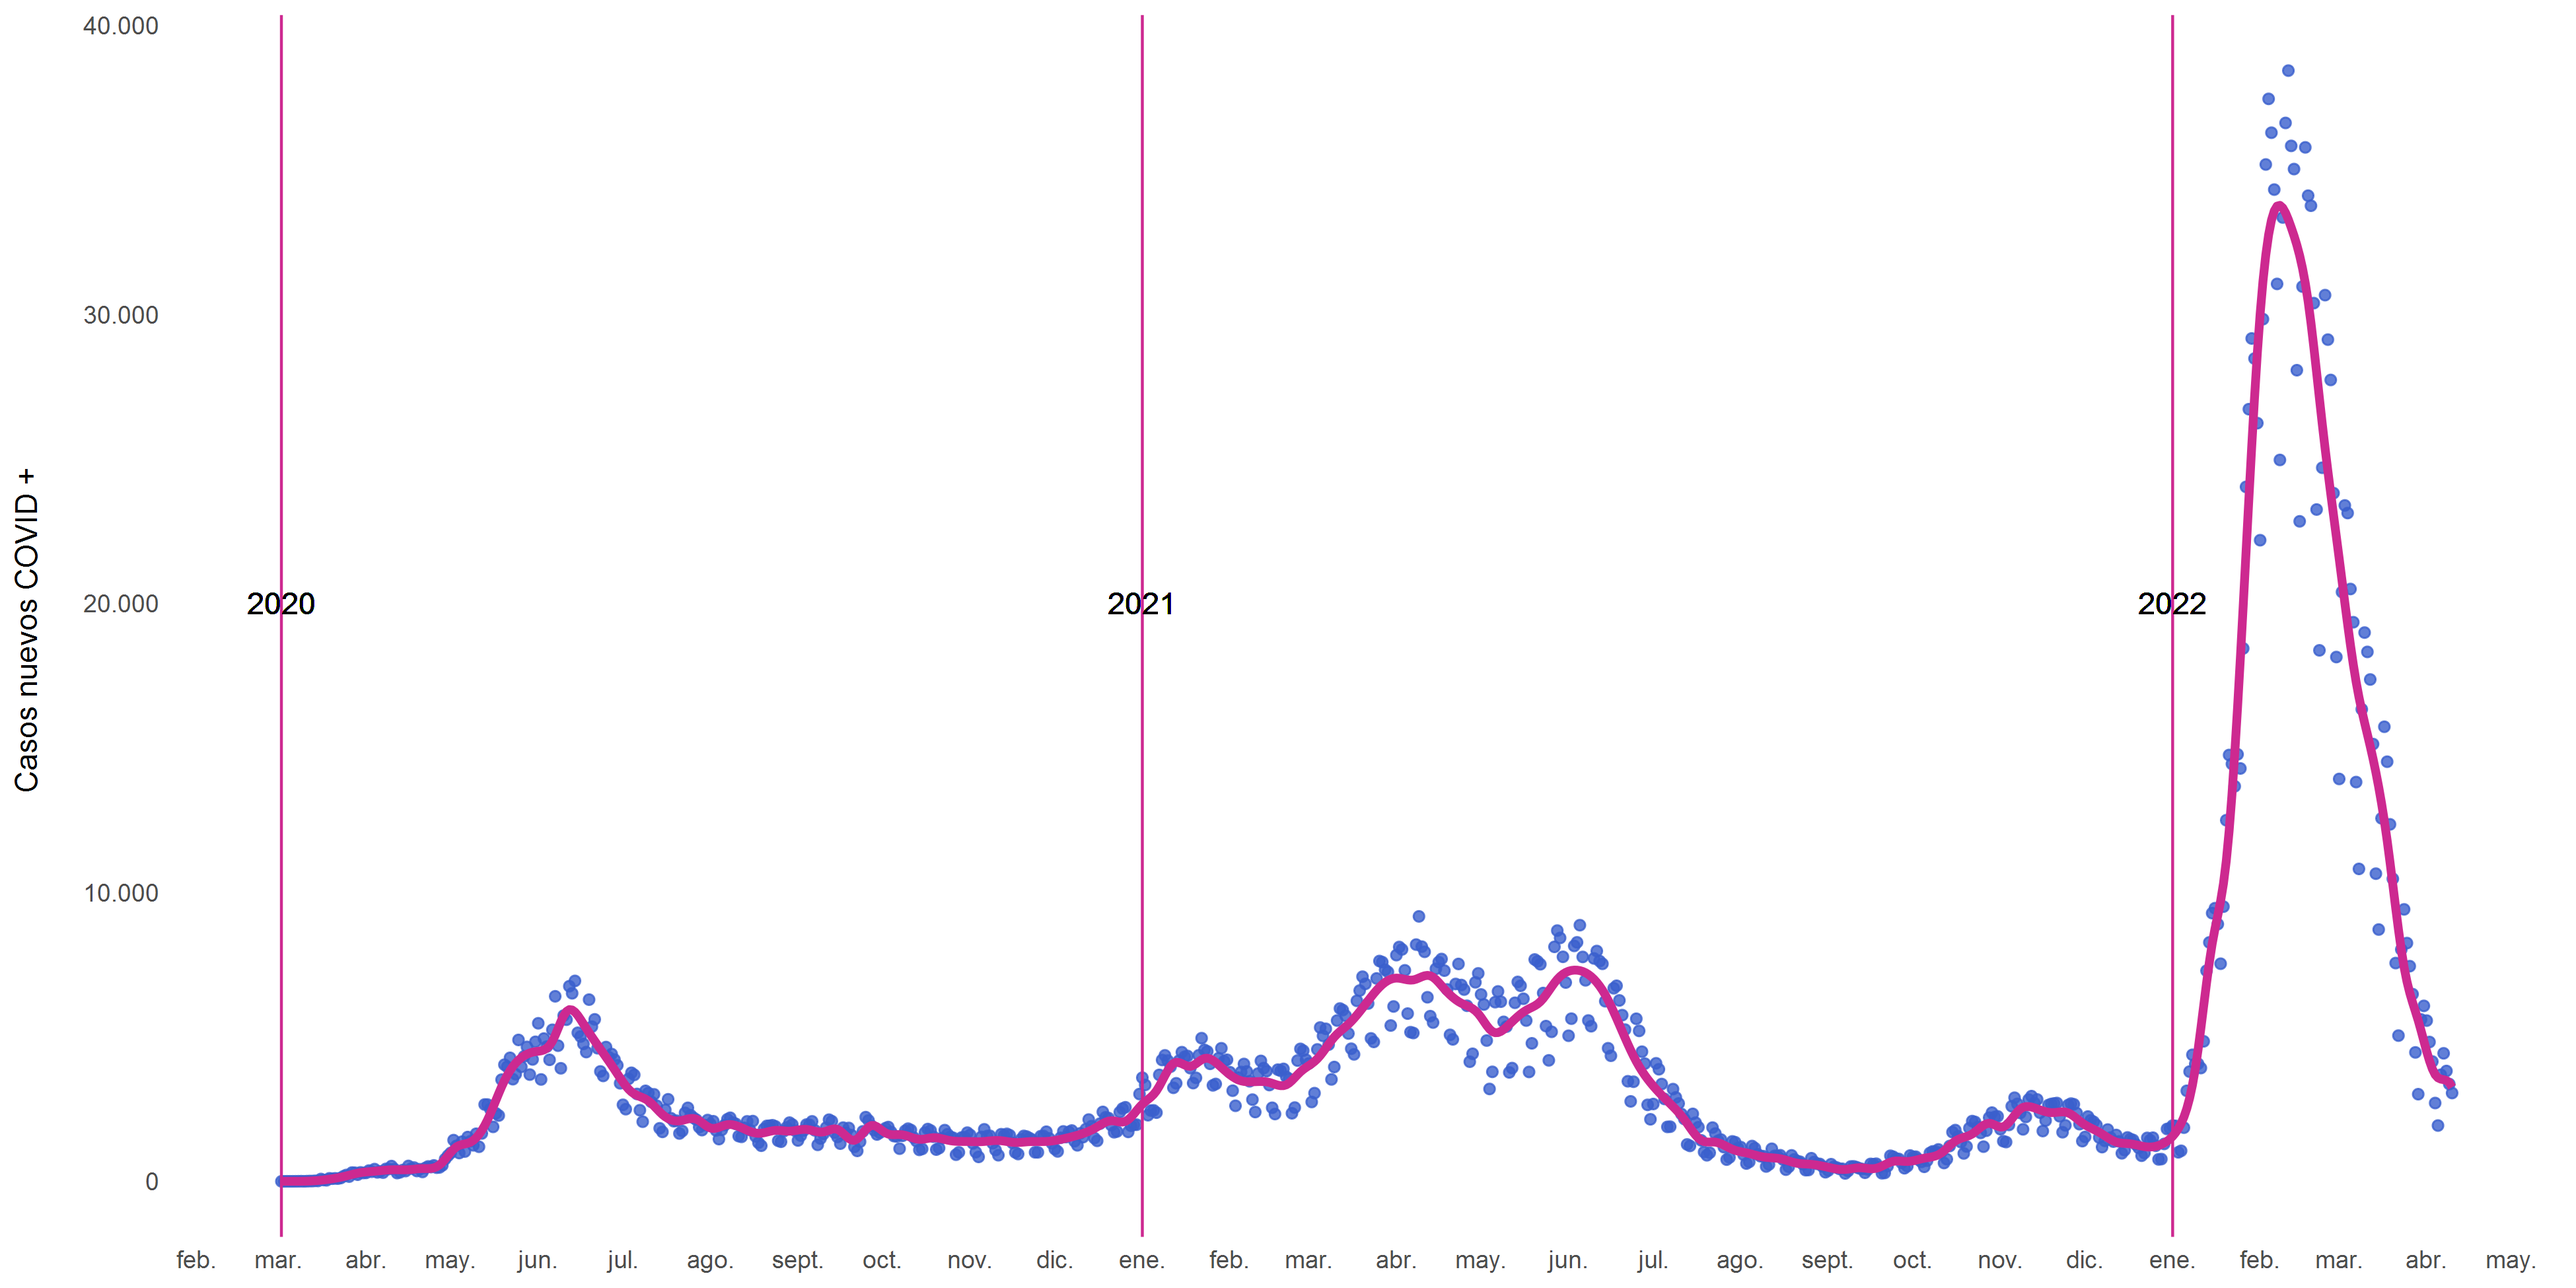
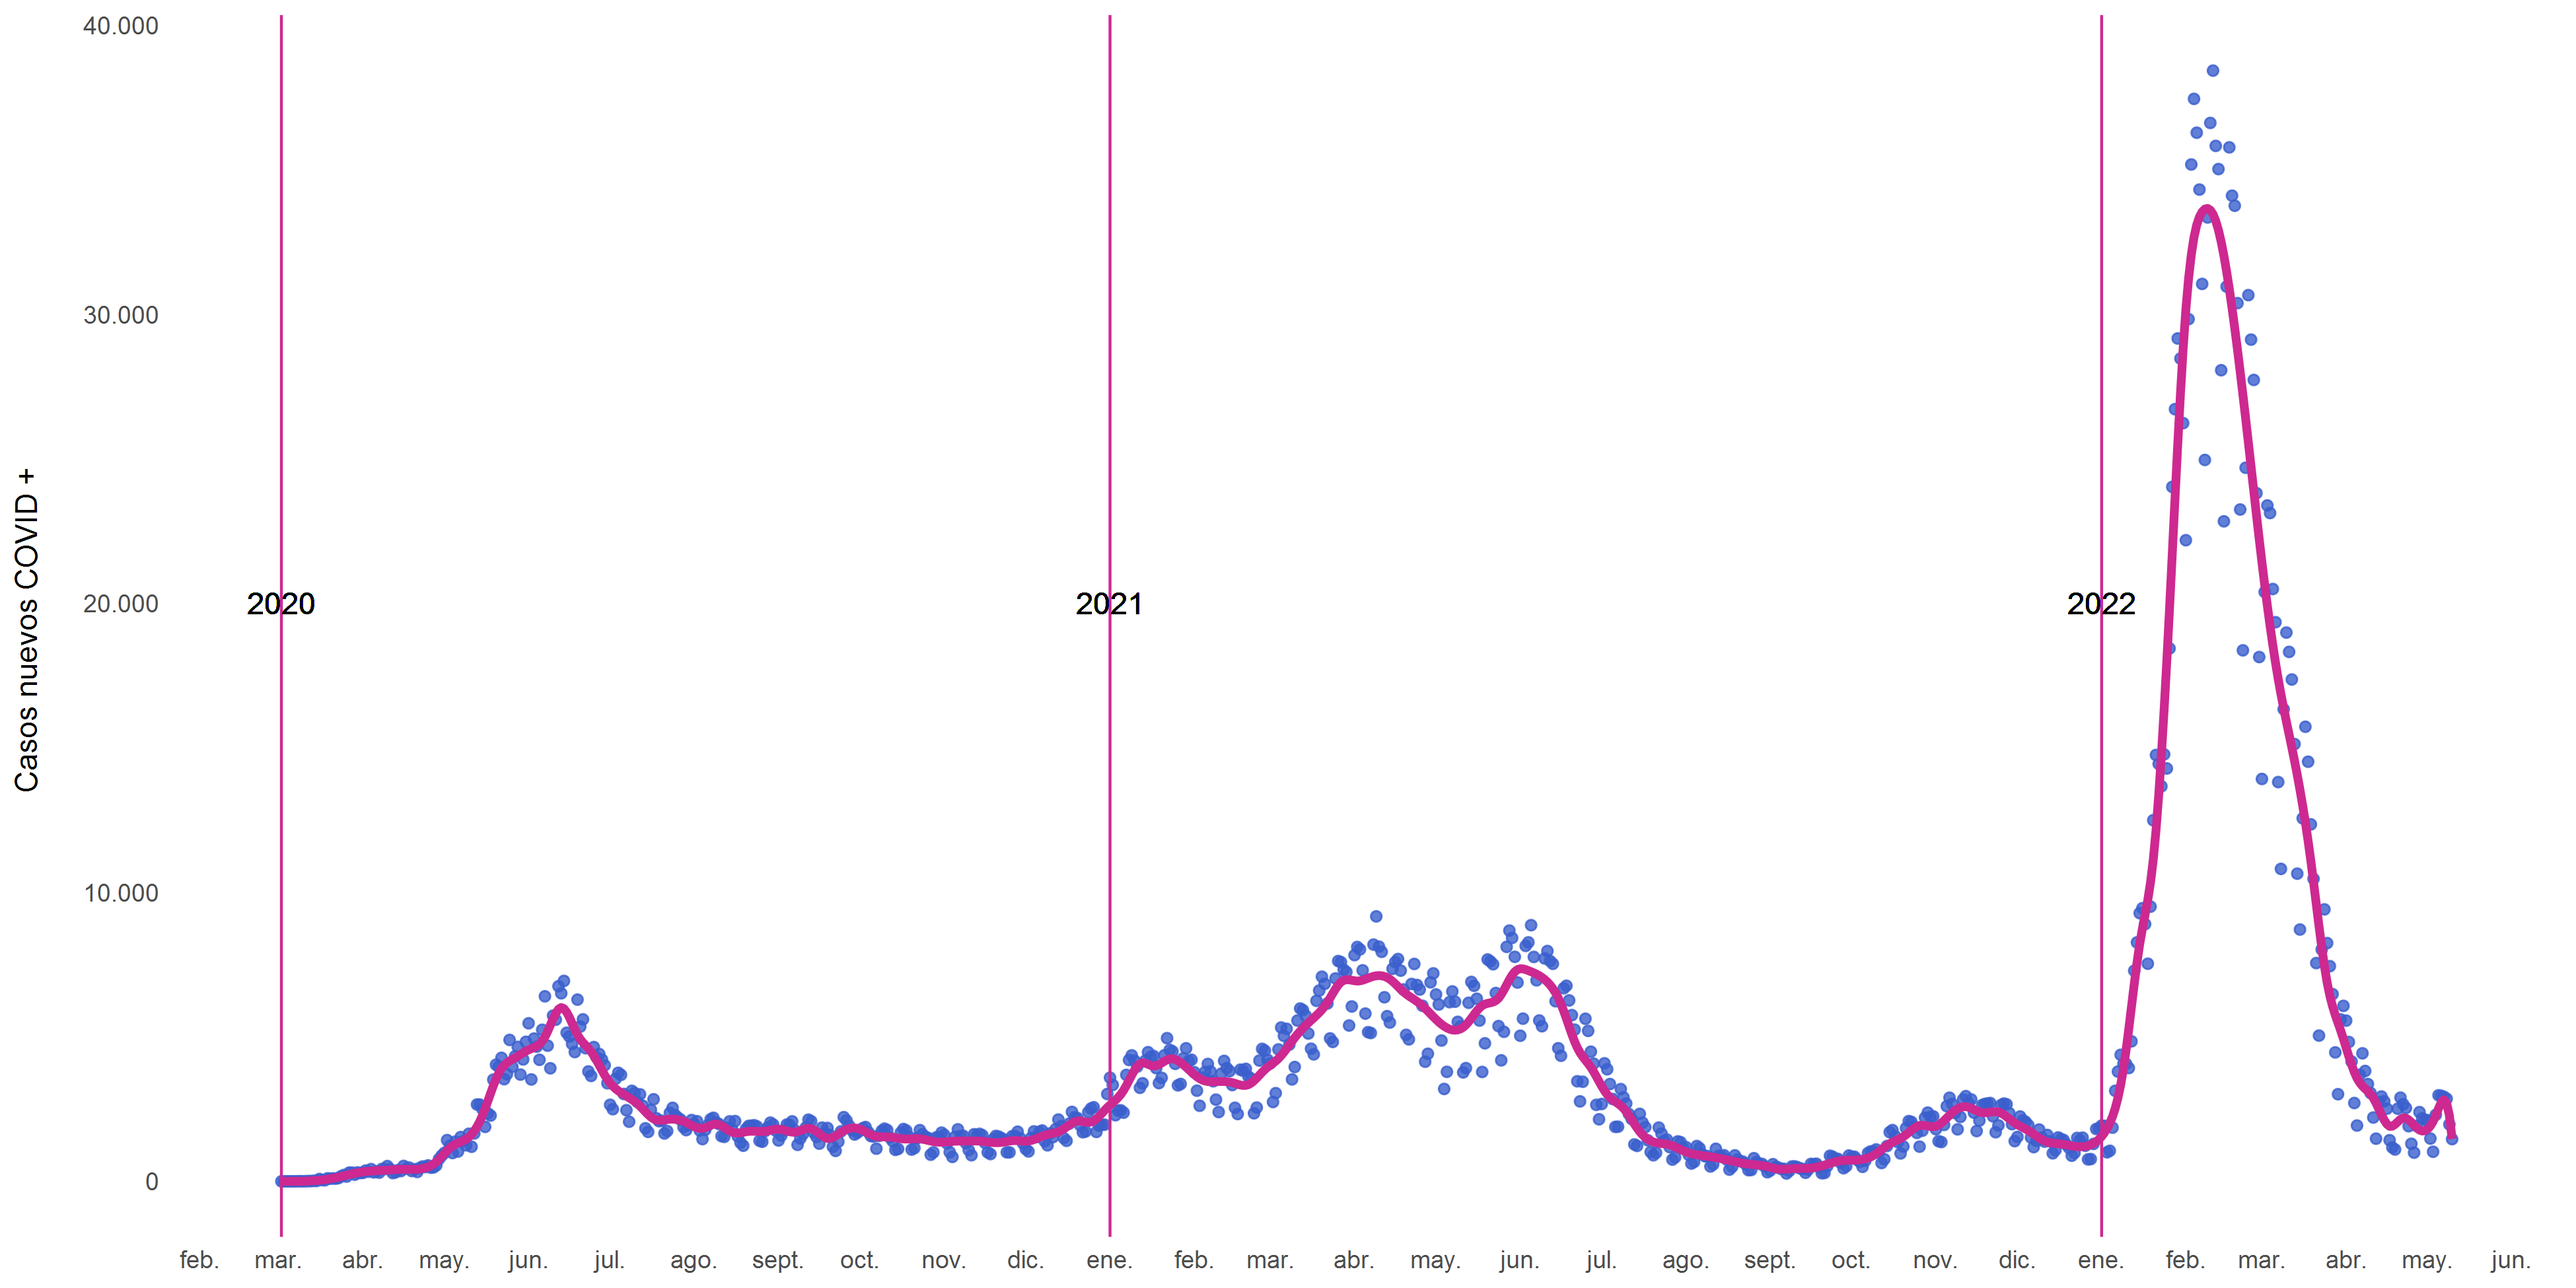
11_05_2022 update

diff --git a/README.md b/README.md
@@ -1,6 +1,6 @@
 # covid_scl
 
-COVID's situation in Chile. **Last update: 11-04-2022**
+COVID's situation in Chile. **Last update: 11-05-2022**
 
 ## COVID stripes
 
